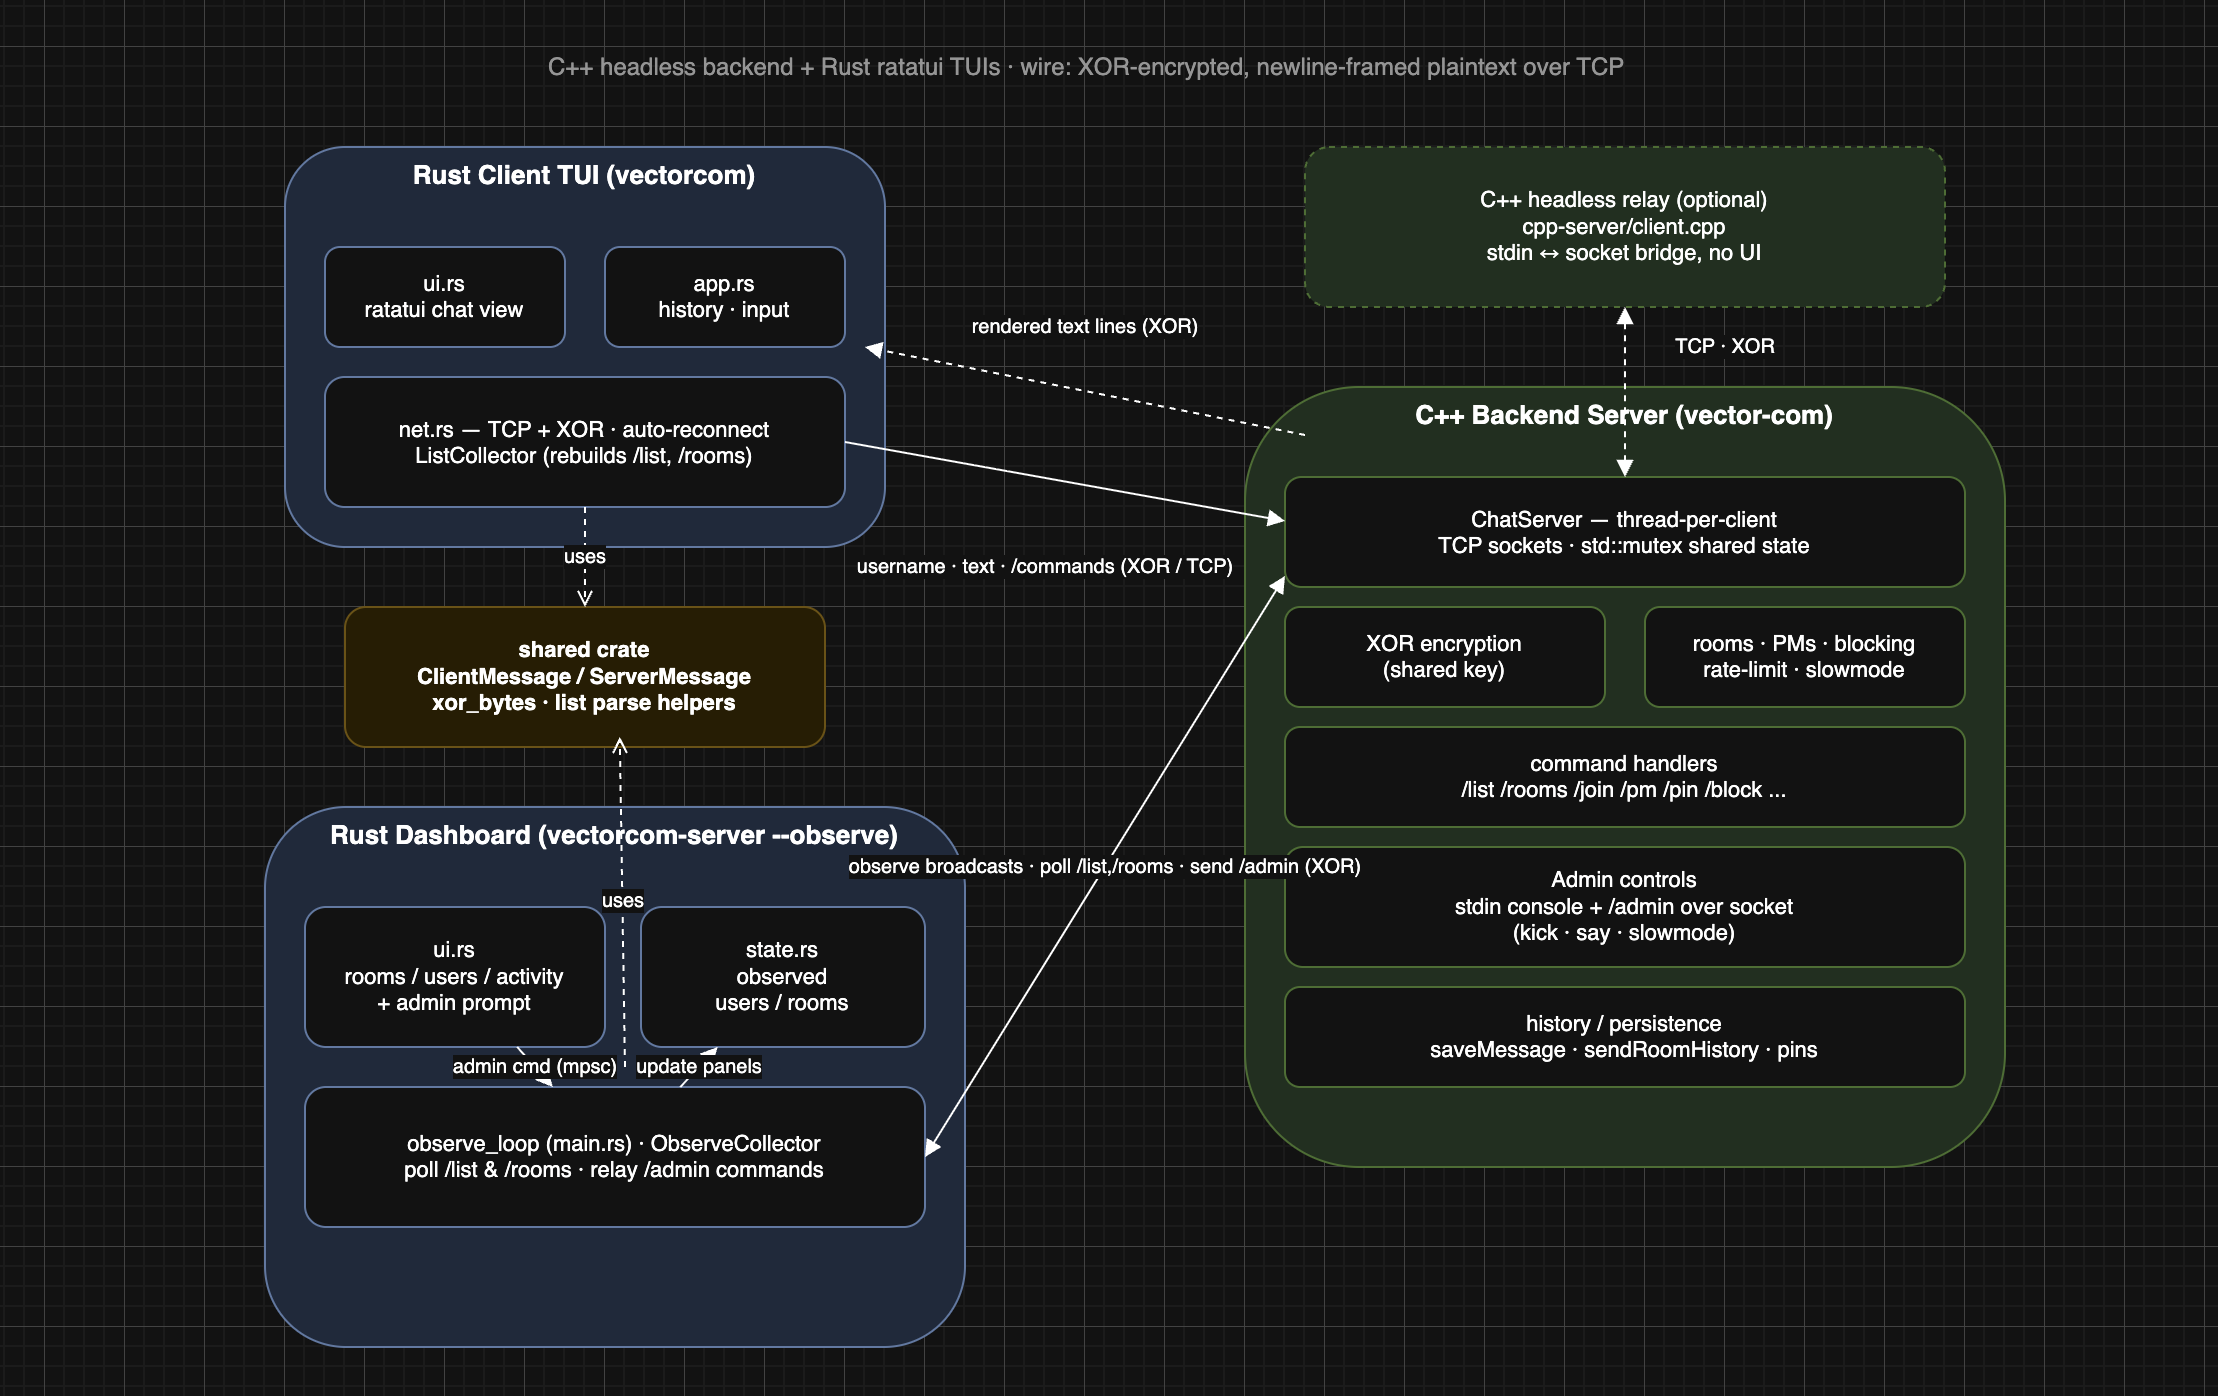
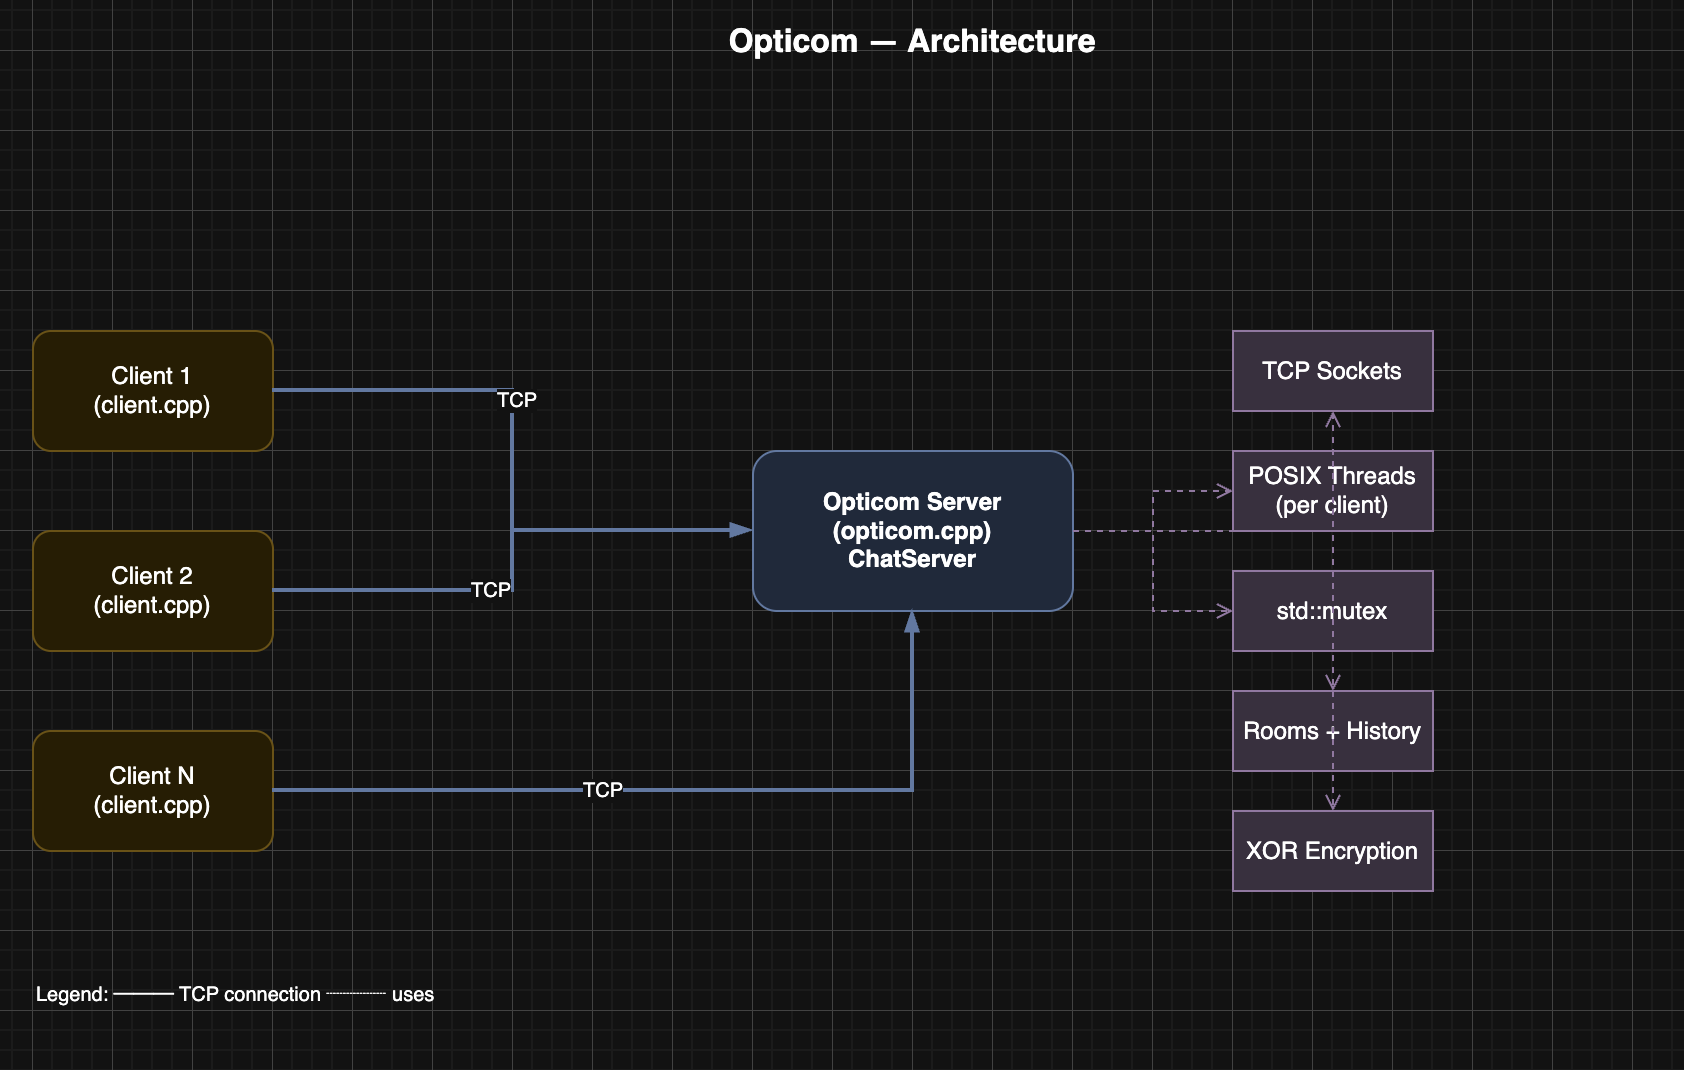
chore:project refactored properly

diff --git a/rust-tui/server/src/main.rs b/rust-tui/server/src/main.rs
@@ -84,8 +84,8 @@ async fn main() -> Result<()> {
 }
 
 /// Apply an admin command against local state (standalone Rust server).
-/// `say`/`block`/`unblock` are fully supported; `kick`/`slowmode` require the
-/// C++ backend's admin path and are reported as unsupported here.
+/// `block`/`unblock` are special commands; anything else (including an
+/// optional `say ` prefix) is broadcast to all clients as-is.
 fn apply_admin_local(state: &Arc<ServerState>, cmd: &str) {
     let cmd = cmd.trim();
     if let Some(rest) = cmd.strip_prefix("say ") {
@@ -97,10 +97,10 @@ fn apply_admin_local(state: &Arc<ServerState>, cmd: &str) {
     } else if let Some(user) = cmd.strip_prefix("unblock ") {
         state.admin_block(user.trim(), false);
         state.log(format!("[admin] unblocked: {}", user.trim()));
-    } else if cmd.starts_with("kick ") || cmd.starts_with("slowmode ") {
-        state.log(format!("[admin] '{}' is only supported against a C++ backend", cmd));
-    } else {
-        state.log(format!("[admin] unknown command: {}", cmd));
+    } else if !cmd.is_empty() {
+        // Anything else typed by the admin is broadcast as-is.
+        state.admin_say(cmd.to_string());
+        state.log(format!("[admin] say: {}", cmd));
     }
 }
 
